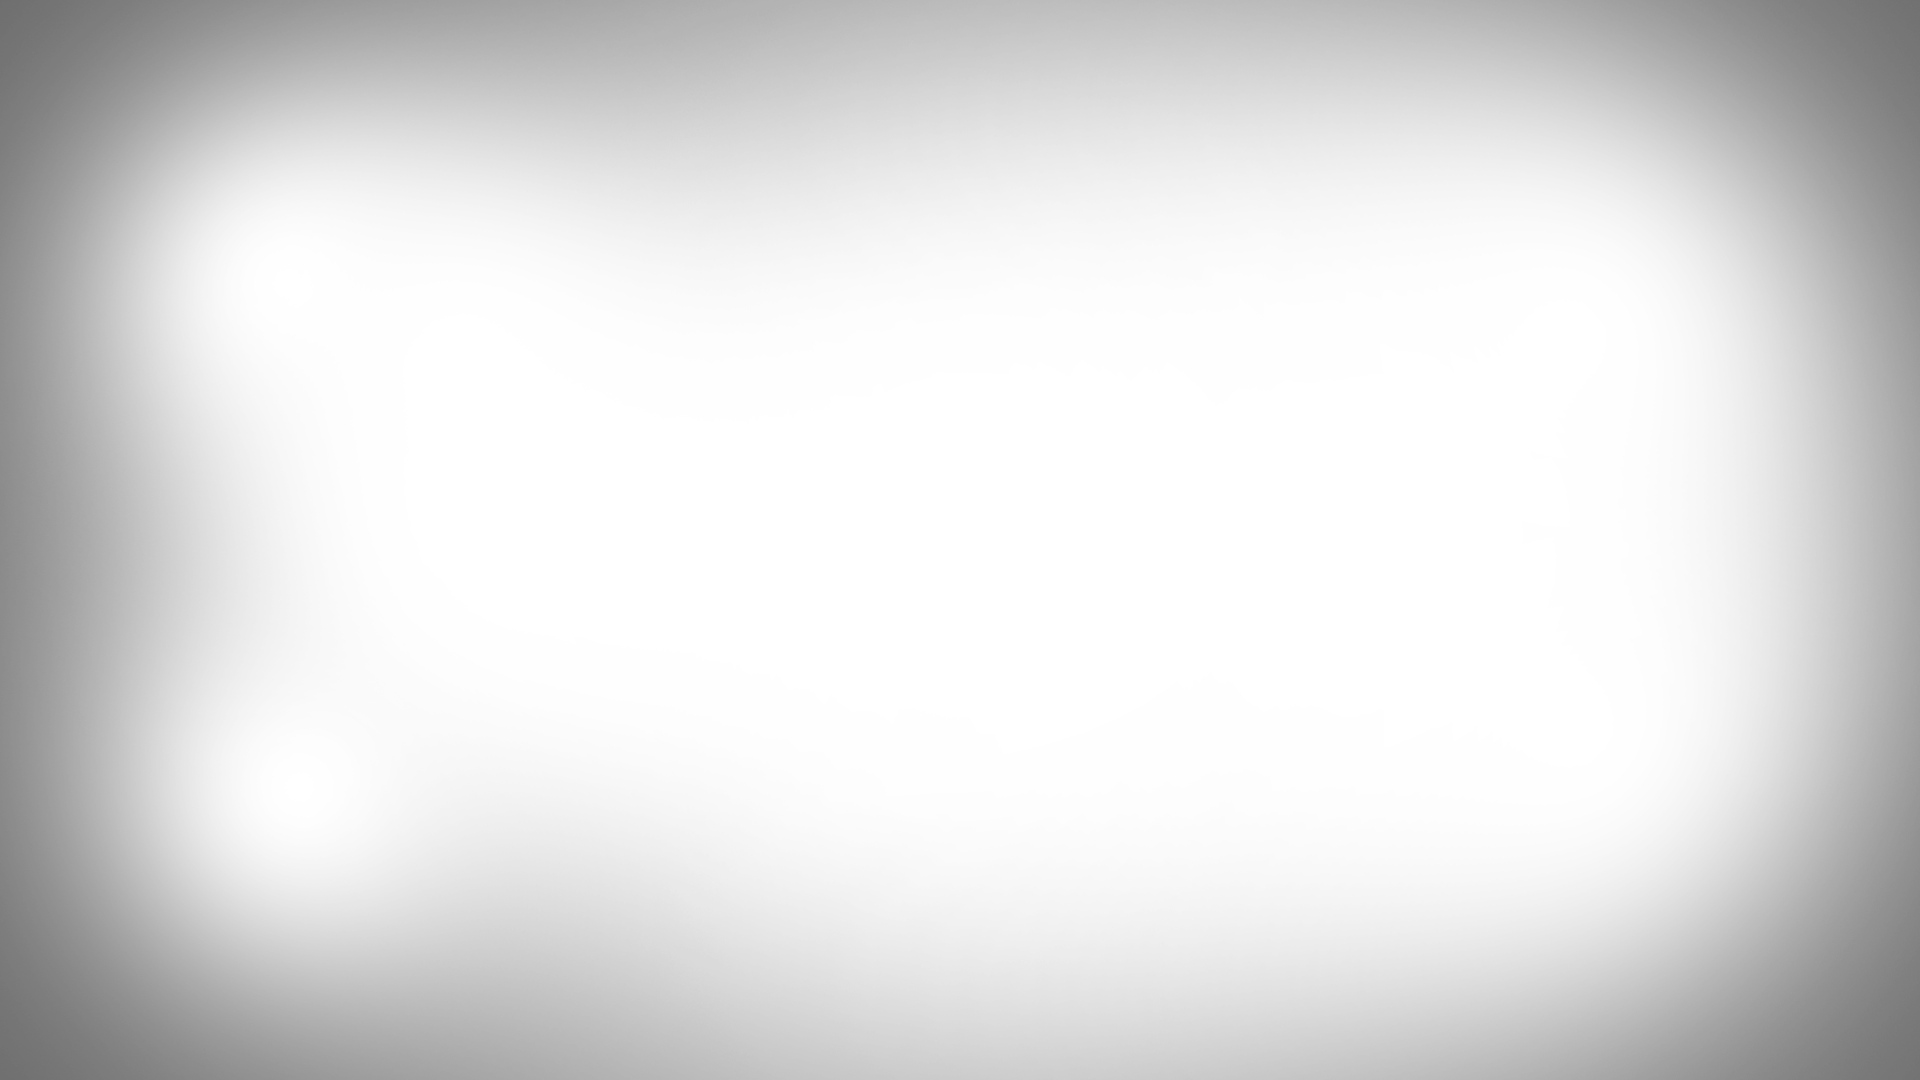
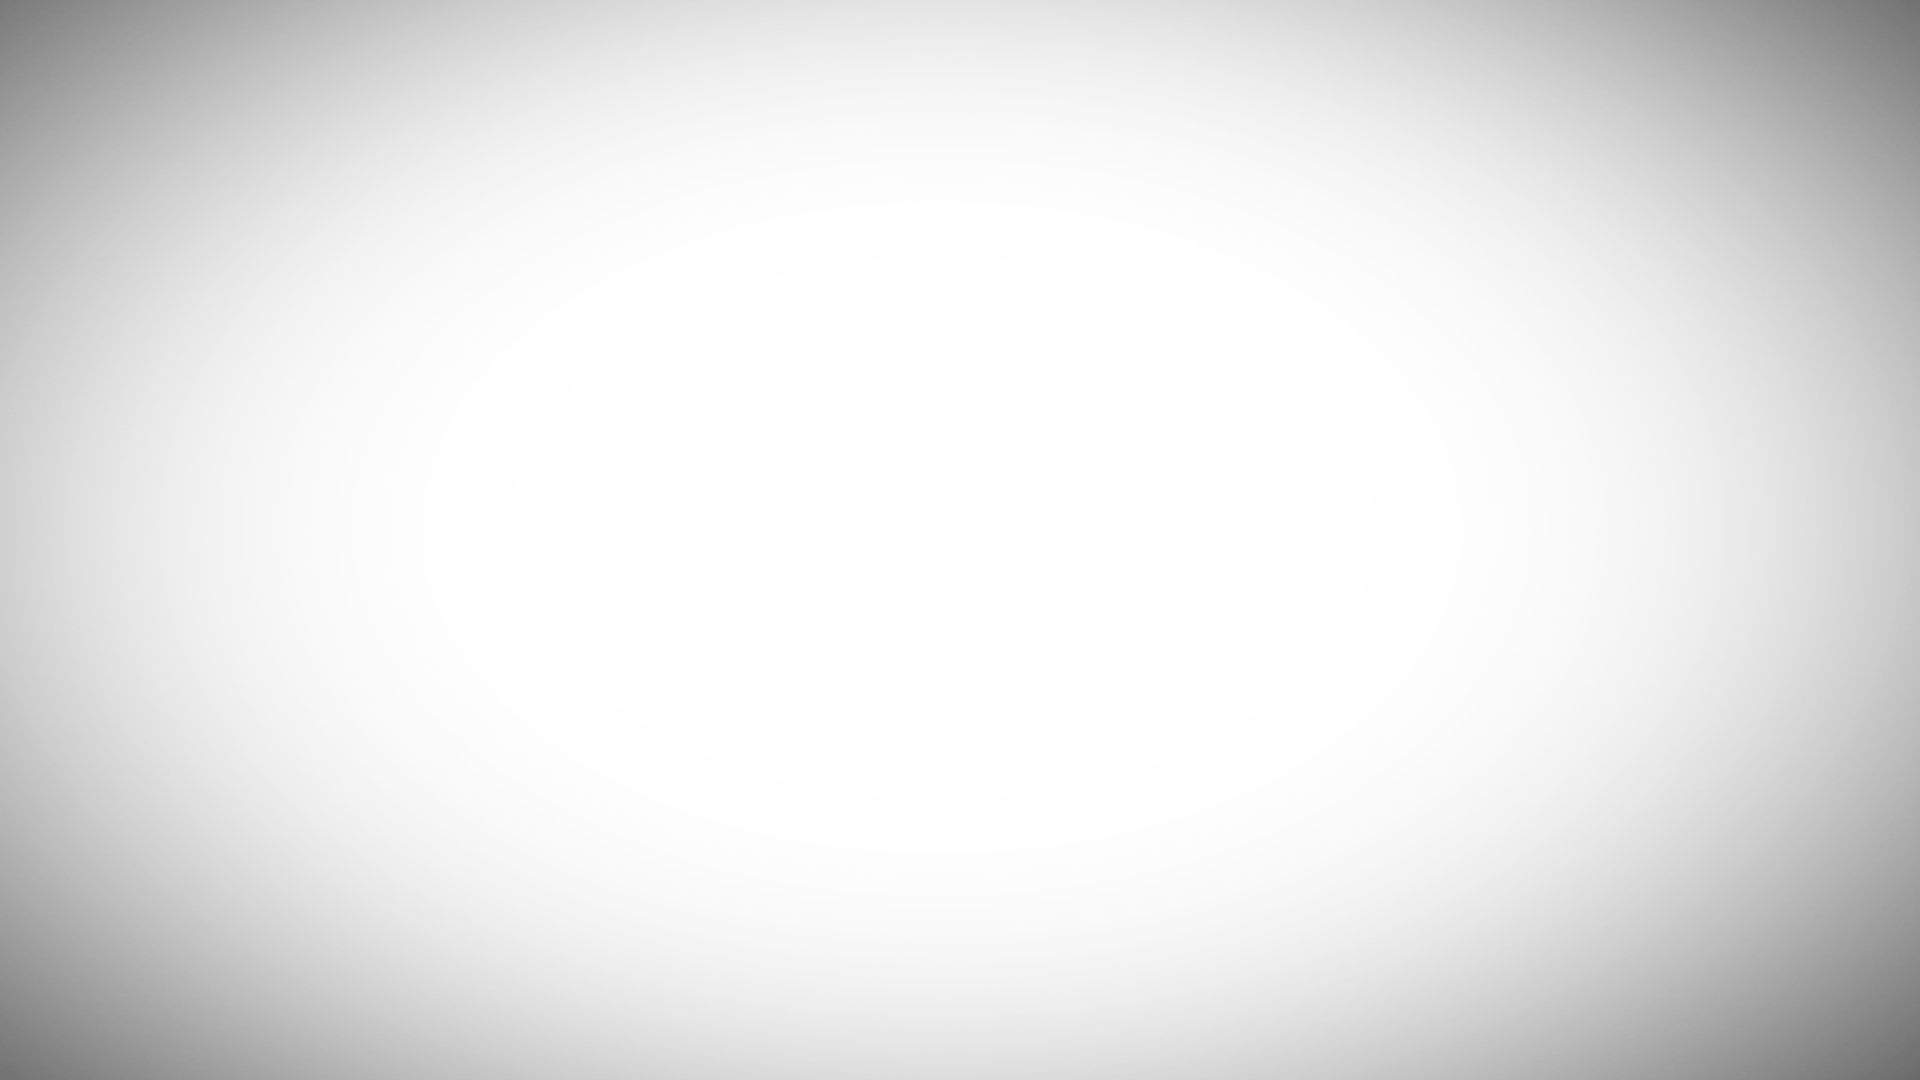
fix fps render

diff --git a/src/com/k300/tracks/ObstacleManager.java b/src/com/k300/tracks/ObstacleManager.java
@@ -2,6 +2,7 @@ package com.k300.tracks;
 
 import com.k300.graphics.Assets;
 import com.k300.utils.Point;
+import com.k300.utils.math.Converter;
 
 import java.awt.*;
 import java.awt.image.BufferedImage;
@@ -42,6 +43,9 @@ public class ObstacleManager {
         trackGraphics.drawImage(trackMiddle, (1920 - trackMiddle.getWidth()) / 2, (1080 - trackMiddle.getHeight()) / 2, trackMiddle.getWidth(), trackMiddle.getHeight(), null);
 
         trackGraphics.drawImage(Assets.getImage(Assets.TRACK_OUTSIDE_KEY), 0, 0, track.getWidth(), track.getHeight(), null);
+
+        trackGraphics.drawImage(Assets.getImage(Assets.FILTER_KEY), 0, 0, Converter.FHD_SCREEN_WIDTH, Converter.FHD_SCREEN_HEIGHT, null);
+
     }
 
     public void addObstacleToTrackImage(Obstacle obstacle) {

diff --git a/src/com/k300/Launcher.java b/src/com/k300/Launcher.java
@@ -114,7 +114,6 @@ public class Launcher {
             BufferedImage fhdImage = getFDHImage();
             Graphics fhdGraphics = fhdImage.getGraphics();
             StateManager.getCurrentState().render(fhdGraphics);
-            fhdGraphics.drawImage(Assets.getImage(Assets.FILTER_KEY), 0, 0, Converter.FHD_SCREEN_WIDTH, Converter.FHD_SCREEN_HEIGHT, null);
             drawImageRelativeToScreen(windowGraphics, fhdImage);
             windowGraphics.drawString("FPS: " + fps, 30, 60);
         }

diff --git a/src/com/k300/graphics/Assets.java b/src/com/k300/graphics/Assets.java
@@ -1,5 +1,7 @@
 package com.k300.graphics;
 
+import com.k300.utils.math.Converter;
+
 import java.awt.*;
 import java.awt.image.BufferedImage;
 import java.util.Hashtable;
